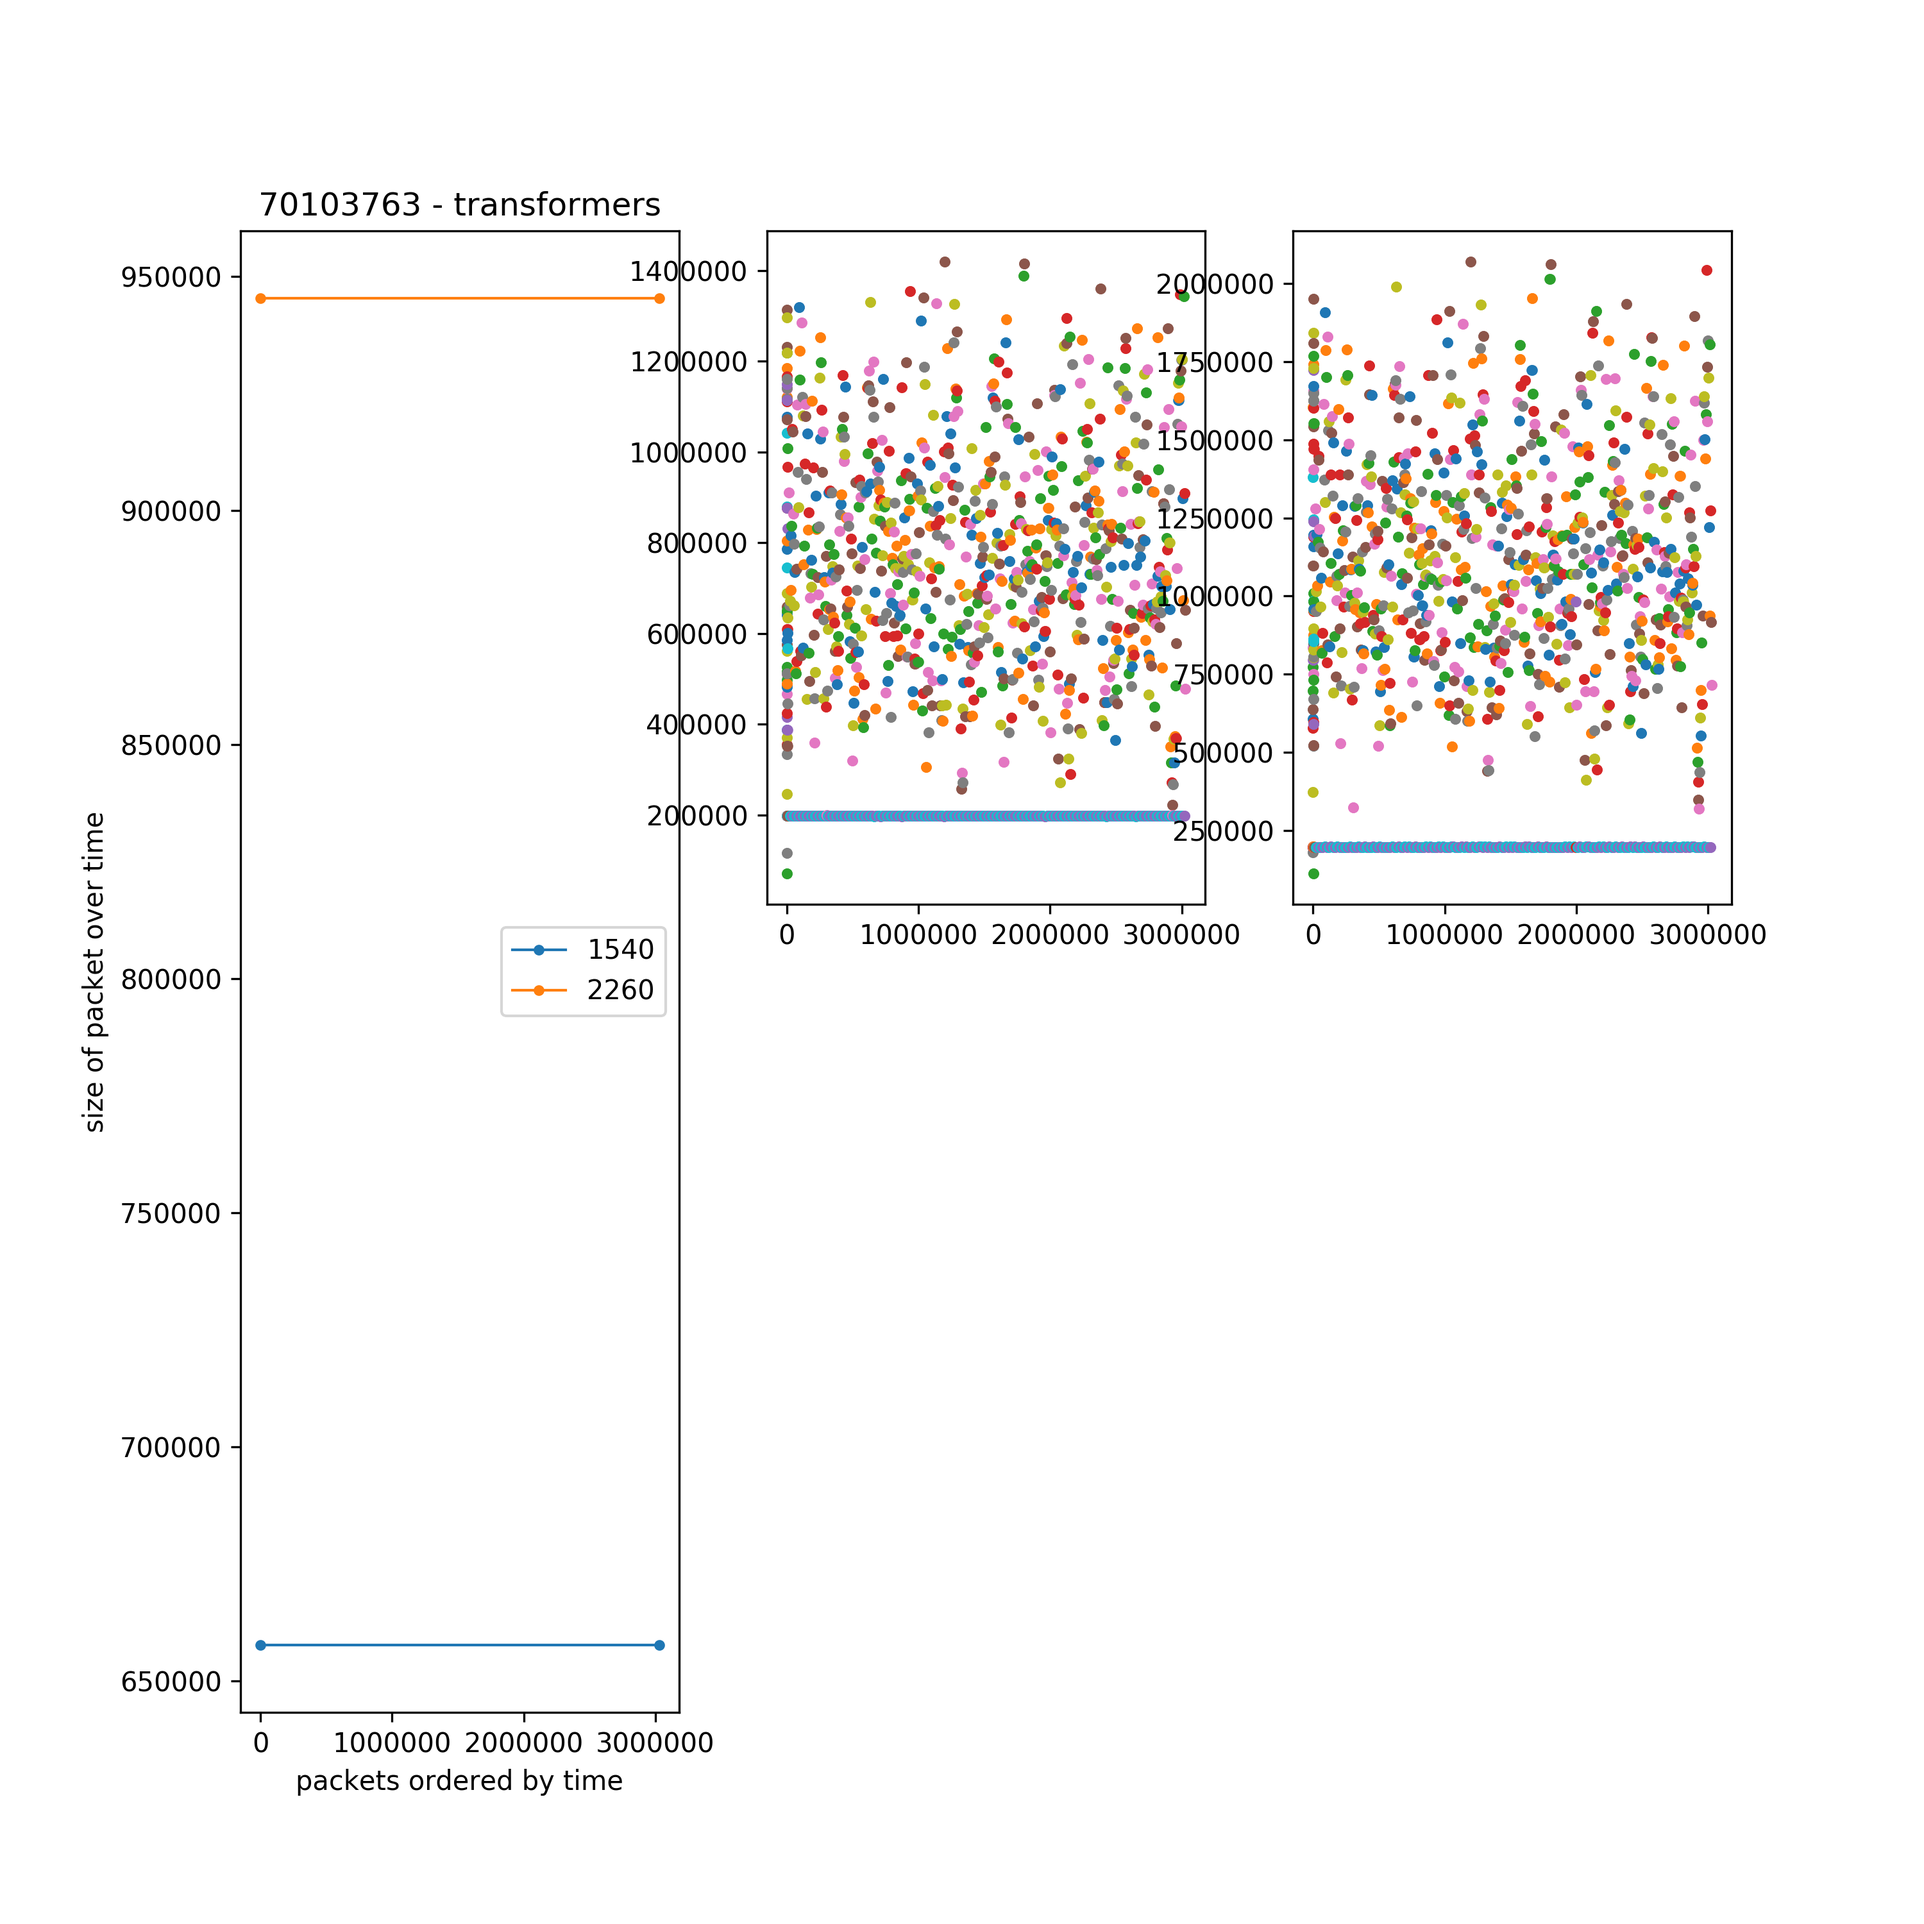
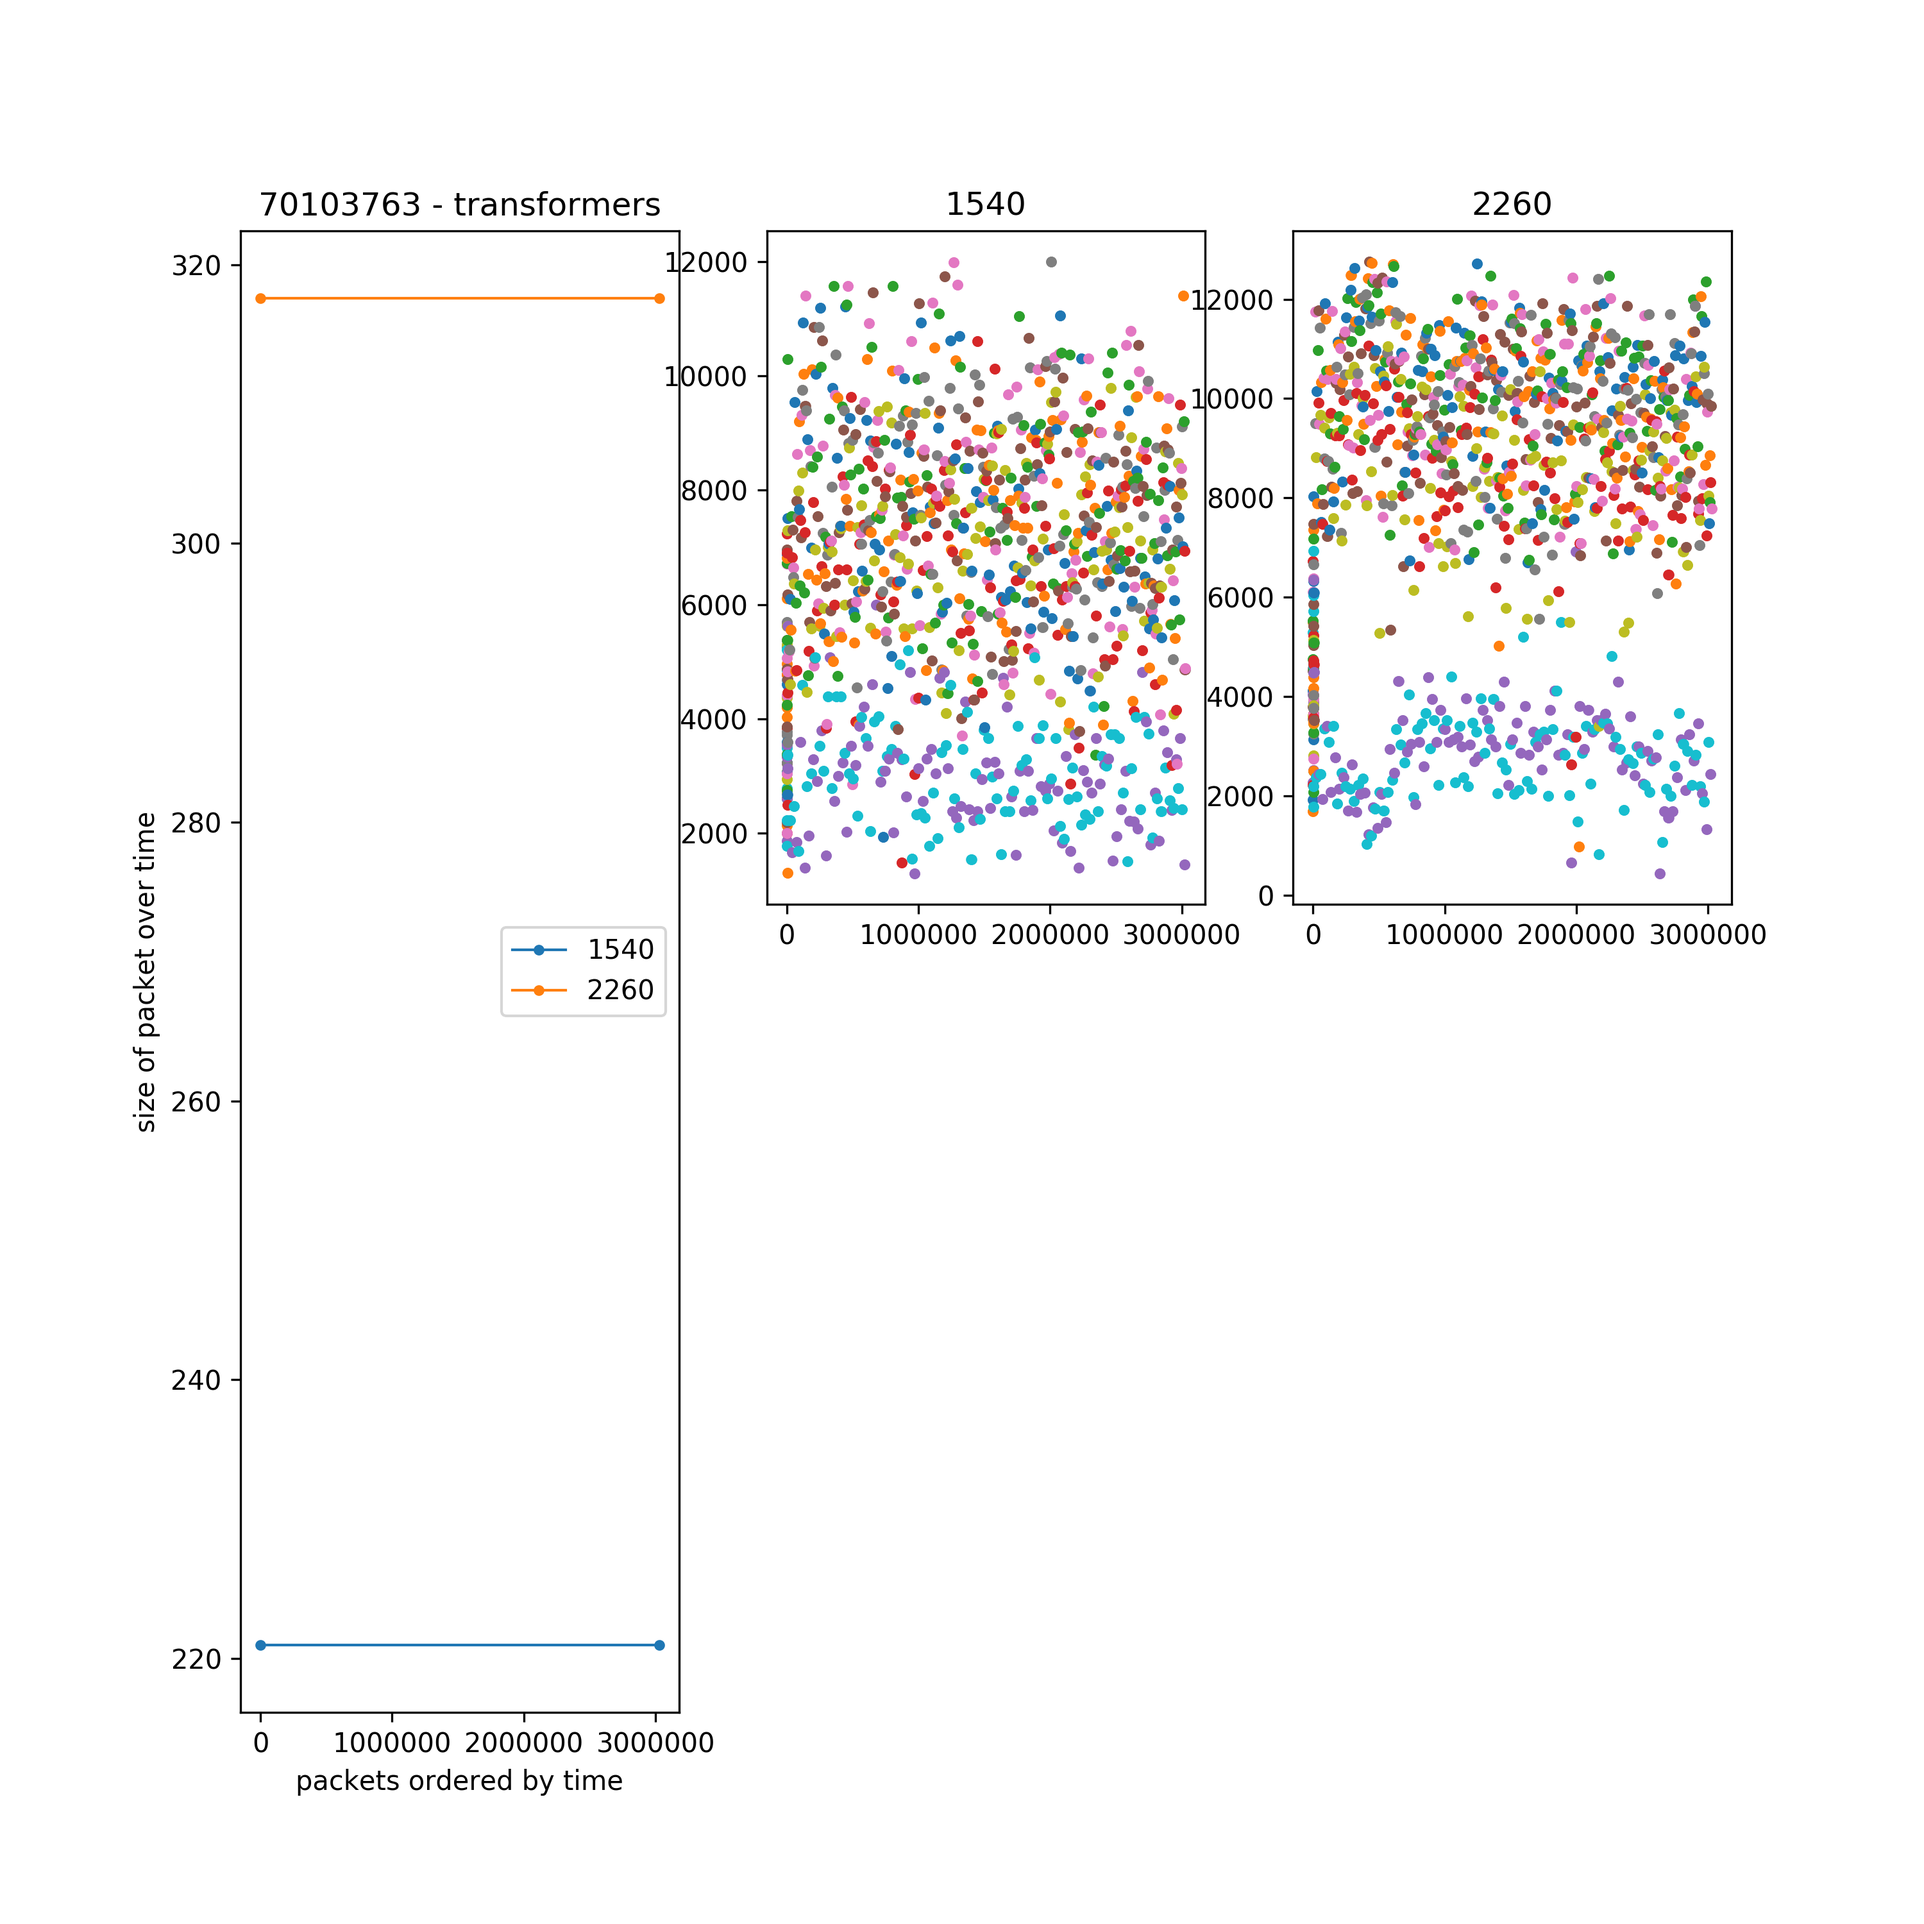
new experiments, plots & evalutaions

diff --git a/get_best_estimate_of_encoding_length.py b/get_best_estimate_of_encoding_length.py
@@ -1,0 +1,130 @@
+import matplotlib.pyplot as plt
+import hashlib
+import sqlite3
+import json
+import dateutil
+import time
+
+from python_libs.config import StaticConfig, Inventory
+
+MIN_RESOLUTION = 1
+SKIP_FIRST = 100
+MAX_RESOLUTION = 400
+MIN_Y = 20
+
+config = StaticConfig()
+inventory = Inventory()
+
+normalize_cache = None
+normalize_cache_result = None
+
+
+def get_adapted_time(current_point, normalize_point):
+    global normalize_cache_result, normalize_cache
+
+    if normalize_point is not normalize_cache:
+        normalize_cache_result = convert_to_integer(normalize_point)
+        normalize_cache = normalize_point
+
+    return convert_to_integer(current_point) - normalize_cache_result
+
+
+def convert_to_integer(date):
+    my_date = dateutil.parser.parse(date)
+    return int(time.mktime(my_date.timetuple()) * 1000 + my_date.microsecond / 1000)
+    # the following works but is ugly
+    # return int(my_date.strftime("%s")) * 1000 + int(str(my_date.time()).split(".")[1][:3])
+
+
+# get sqlite connection
+db_file_name = config.captures_dir + "/data.sqlite"
+connection = sqlite3.connect(db_file_name)
+cursor = connection.cursor()
+
+cursor.execute("SELECT DISTINCT movie_id FROM captures")
+db_movies = cursor.fetchall()
+for db_movie in db_movies:
+    movie_id = db_movie[0]
+    print("checking " + str(movie_id))
+
+    cursor.execute("SELECT DISTINCT bitrate FROM captures WHERE movie_id = ? ORDER BY bitrate", [movie_id])
+    db_bitrates = cursor.fetchall()
+
+    for db_bitrate in db_bitrates:
+        bitrate = db_bitrate[0]
+        print("")
+        print("")
+        print("bitrate: " + str(bitrate))
+
+        # show video package accumulation
+        cursor.execute("SELECT p.body_size as size, p.start_date_time as start, p.end_date_time as end "
+                       "FROM packets p "
+                       "INNER JOIN captures c ON c.id = p.capture_id "
+                       "WHERE c.movie_id = ? AND c.bitrate = ? AND p.body_size > 0 AND p.is_video = 1 "
+                       "ORDER BY p.start_date_time",
+                       [movie_id, bitrate])
+
+        db_packets = cursor.fetchall()
+
+        current_skip = SKIP_FIRST
+        full_sum = 0
+        start = 0
+        normalize_point = 0
+        all_values = []
+        for db_packet in db_packets:
+            current_skip -= 1
+            if current_skip > 0:
+                continue
+
+            if current_skip == 0:
+                normalize_point = db_packet[1]
+
+            full_sum += db_packet[0]
+
+        total_time = get_adapted_time(db_packets[len(db_packets) - 1][2], normalize_point) - start
+        target_y = full_sum / total_time
+
+        resolution_error = {}
+        minimal_error = float("inf")
+        for resolution in range(MIN_RESOLUTION, MAX_RESOLUTION):
+
+            current_skip = SKIP_FIRST
+            full_sum = 0
+            start = 0
+            all_values = []
+            current_sum = 0
+            current_resolution = resolution
+            for db_packet in db_packets:
+                current_skip -= 1
+                if current_skip > 0:
+                    continue
+
+                if current_resolution == resolution:
+                    start = get_adapted_time(db_packet[1], normalize_point)
+
+                current_sum += db_packet[0]
+                current_resolution -= 1
+
+                if current_resolution == 0:
+                    current_resolution = resolution
+                    end = get_adapted_time(db_packet[2], normalize_point)
+
+                    if end - start == 0:
+                        print("0 size")
+                    else:
+                        y = current_sum / (end - start)
+                        if y > MIN_Y:
+                            all_values.append(y)
+
+                    current_sum = 0
+
+            resolution_error[resolution] = 0
+            for value in all_values:
+                resolution_error[resolution] += pow(value, 2)
+
+            minimal_error_now = ""
+            if resolution_error[resolution] < minimal_error:
+                minimal_error_now = " (MINIMAL)"
+                minimal_error = resolution_error[resolution]
+
+            print("error for " + str(resolution) + ": " + str(resolution_error[resolution]) + minimal_error_now)

diff --git a/plot_capture_aggregated_flow_per_time.py b/plot_capture_aggregated_flow_per_time.py
@@ -8,6 +8,8 @@ import time
 from python_libs.config import StaticConfig, Inventory
 
 RESOLUTION = 10
+SKIP_FIRST = 100
+MIN_Y = 20
 
 config = StaticConfig()
 inventory = Inventory()
@@ -74,30 +76,46 @@ for db_movie in db_movies:
 
         db_packets = cursor.fetchall()
 
-        sum = 0
+        current_resolution = RESOLUTION
+        current_skip = SKIP_FIRST
         full_sum = 0
-        counter = 0
+        current_sum = 0
         start = 0
         normalize_point = db_packets[0][1]
         for db_packet in db_packets:
-            # create line from x1 to x2, depending on size of packet
-            start = get_adapted_time(db_packet[1], normalize_point)
-            end = get_adapted_time(db_packet[2], normalize_point)
-            if end - start == 0:
-                print("0 size")
-            else:
-                y = db_packet[0] / (end - start)
-                axes_bitrate.plot([start, end], [y, y], marker='.', linewidth=1)
+            current_skip -= 1
+            if current_skip > 0:
+                continue
 
-            # for full analyis
-            counter += 1
-            sum += db_packet[0]
+            if current_skip == 0:
+                normalize_point = db_packet[1]
+
+            if current_resolution == RESOLUTION:
+                start = get_adapted_time(db_packet[1], normalize_point)
+
+            current_sum += db_packet[0]
+            current_resolution -= 1
+
+            if current_resolution == 0:
+                current_resolution = RESOLUTION
+                end = get_adapted_time(db_packet[2], normalize_point)
+
+                if end - start == 0:
+                    print("0 size")
+                else:
+                    y = current_sum / (end - start)
+                    if y > MIN_Y:
+                        axes_bitrate.plot([start, end], [y, y], marker='.', linewidth=1)
+
+                full_sum += current_sum
+                current_sum = 0
 
         total_time = get_adapted_time(db_packets[len(db_packets) - 1][2], normalize_point)
-        y = sum / total_time
+        y = full_sum / total_time
         axes_full.plot([0, total_time], [y, y], label=str(bitrate), marker='.', linewidth=1)
         axes_full.legend()
 
     # save
-    plt.savefig(config.plot_dir + "/capture_flow_per_time_" + str(movie_id) + ".png", dpi=300)
+    plt.savefig(config.plot_dir + "/capture_aggregated_" + str(RESOLUTION) + "_flow_per_time_" + str(movie_id) + ".png",
+                dpi=300)
     plt.close()
